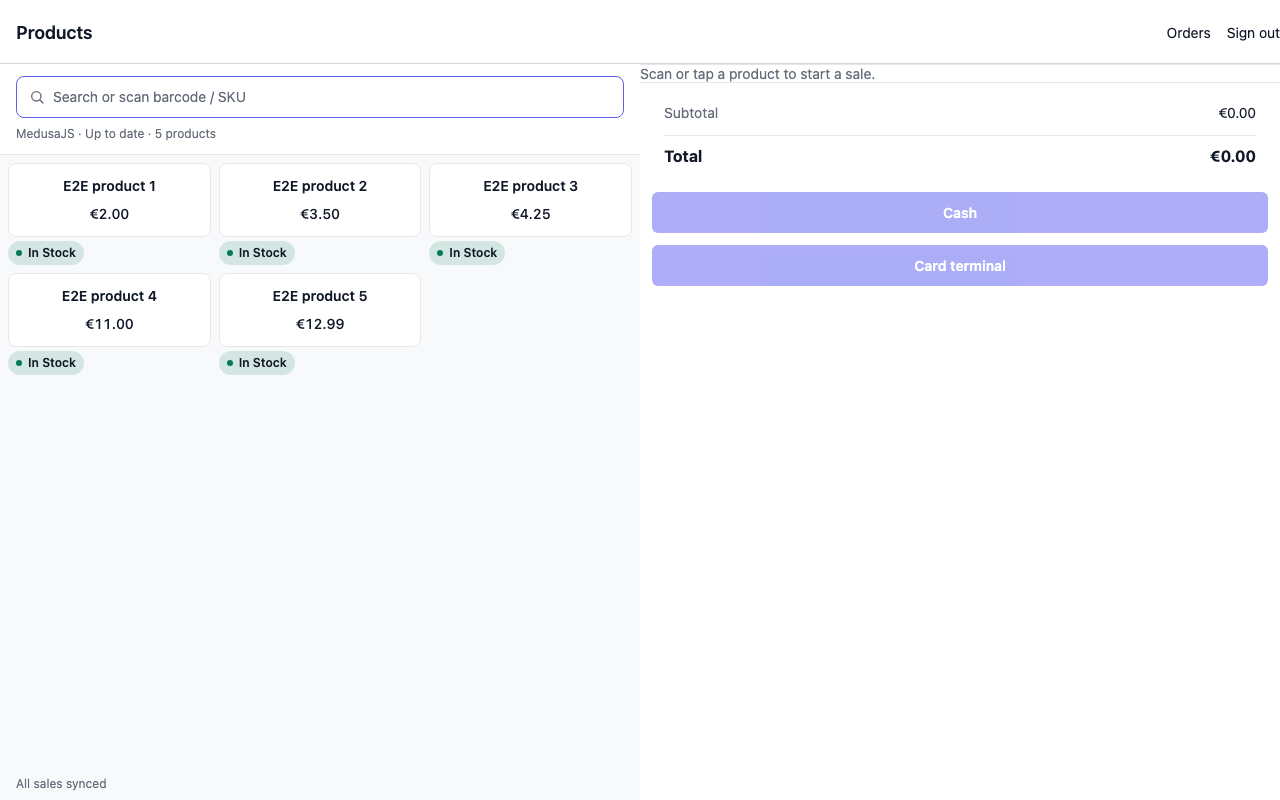
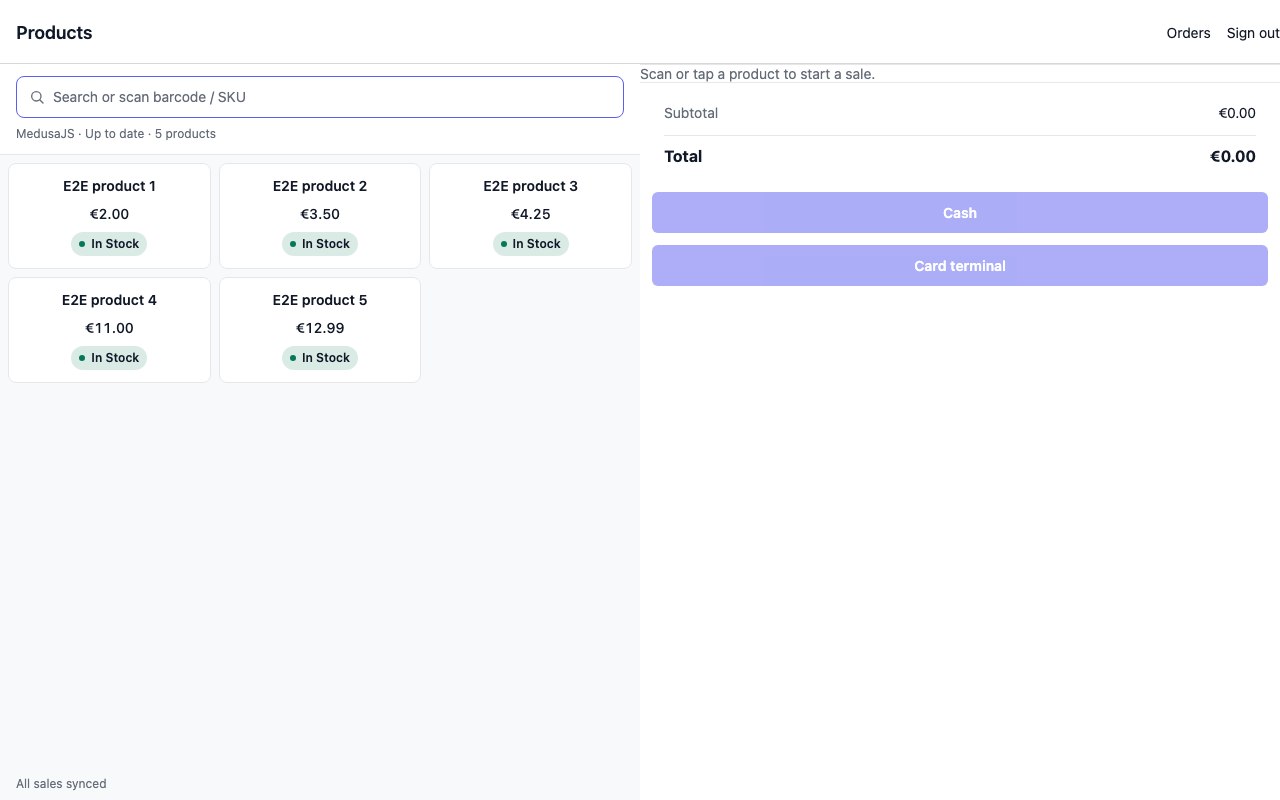
fix(app): stock badge sits inside the tile card, centred under the price
ProductCard has no children slot, so the tile is composed from TallyUI's ProductImage, ProductTitle, ProductPrice and ProductStockBadge with ProductCard's exact classes, the badge last and centred (self-center overrides the badge's self-start). The card stays 168 px wide at 360 px; the Pressable gains accessibilityRole=button. Screenshots re-shot.

Implemented by sonnet subagent (Codex quota exhausted).

Claude-Session: https://claude.ai/code/session_012gSKmu3iwwMZQ8DAJ144jw

Changed region(s): [[0.0, 0.2812, 0.125, 0.4688], [0.1562, 0.2812, 0.2812, 0.4688], [0.3125, 0.2812, 0.4688, 0.3438]]

diff --git a/apps/expo/tests/catalogue.test.tsx b/apps/expo/tests/catalogue.test.tsx
@@ -5,7 +5,7 @@ import { Subject } from 'rxjs';
 import type { ComponentProps, ReactNode } from 'react';
 import { afterEach, describe, expect, it, vi } from 'vitest';
 import { medusaConnector } from '@tallyui/connector-medusa';
-import type { ProductCard, ProductGrid, ProductStockBadge, SearchInput } from '@tallyui/components';
+import type { ProductGrid, ProductStockBadge, SearchInput } from '@tallyui/components';
 import { Catalogue, formatStockSyncTime } from '../components/catalogue';
 import { createTallyDatabase } from '@tallyui/database';
 import { clearProductCache, productCacheName, productCacheStorage } from '../lib/product-cache';
@@ -22,9 +22,12 @@ vi.mock('@tallyui/components', () => ({
       {items.length ? items.map((item, index) => <div key={item.id}>{renderItem(item, index)}</div>) : emptyState}
     </div>
   ),
-  ProductCard: ({ doc, onPress }: ComponentProps<typeof ProductCard>) => (
-    <button onClick={onPress}>{doc.title as ReactNode}</button>
-  ),
+  // The tile is composed directly in catalogue.tsx (ProductCard has no children slot), so these
+  // stand in for its pieces; only ProductTitle needs to render real content for the tests below.
+  ProductImage: () => null,
+  ProductTitle: ({ doc }: { doc: { title?: ReactNode } }) => <span>{doc.title}</span>,
+  ProductPrice: () => null,
+  VStack: ({ children }: { children?: ReactNode }) => <div>{children}</div>,
   // Stands in for TallyUI's real badge (which reads useProductStock off a ConnectorProvider):
   // reports the status this doc's own fields resolve to, so a test can tell which product a
   // tile's badge belongs to and confirm the tile never asks it to show an "as of".
@@ -95,7 +98,7 @@ describe('Catalogue', () => {
     const time = new Date('2026-09-24T10:42:00Z');
     const expected = formatStockSyncTime(time, undefined, hour12, time);
     mount(products, time);
-    fireEvent.click(screen.getByRole('button', { name: 'Red Shirt' }));
+    fireEvent.click(screen.getByTestId('product-tile-Red Shirt'));
     const chooser = within(screen.getByLabelText('Choose variant'));
     expect(chooser.getByText(`In Stock · as of ${expected}`)).toBeTruthy();
     expect(chooser.getByText(`Out of Stock · as of ${expected}`)).toBeTruthy();
@@ -104,7 +107,7 @@ describe('Catalogue', () => {
     const synced = new Date('2026-09-24T09:15:00Z');
     const checked = new Date('2026-09-24T10:42:00Z');
     mount(products, synced, checked);
-    fireEvent.click(screen.getByRole('button', { name: 'Red Shirt' }));
+    fireEvent.click(screen.getByTestId('product-tile-Red Shirt'));
     const chooser = within(screen.getByLabelText('Choose variant'));
     expect(chooser.getByText(`In Stock · as of ${formatStockSyncTime(checked)}`)).toBeTruthy();
     expect(chooser.queryByText(`In Stock · as of ${formatStockSyncTime(synced)}`)).toBeNull();
@@ -113,7 +116,7 @@ describe('Catalogue', () => {
     const checked = new Date('2026-09-24T09:15:00Z');
     const synced = new Date('2026-09-24T10:42:00Z');
     mount(products, synced, checked);
-    fireEvent.click(screen.getByRole('button', { name: 'Red Shirt' }));
+    fireEvent.click(screen.getByTestId('product-tile-Red Shirt'));
     const chooser = within(screen.getByLabelText('Choose variant'));
     expect(chooser.getByText(`In Stock · as of ${formatStockSyncTime(synced)}`)).toBeTruthy();
     expect(chooser.queryByText(`In Stock · as of ${formatStockSyncTime(checked)}`)).toBeNull();
@@ -121,7 +124,7 @@ describe('Catalogue', () => {
   it('shows a short date as well as the time when the winning sync is from yesterday', () => {
     const yesterday = new Date(Date.now() - 24 * 60 * 60 * 1000);
     mount(products, null, yesterday);
-    fireEvent.click(screen.getByRole('button', { name: 'Red Shirt' }));
+    fireEvent.click(screen.getByTestId('product-tile-Red Shirt'));
     const chooser = within(screen.getByLabelText('Choose variant'));
     const expected = formatStockSyncTime(yesterday);
     expect(expected).toContain(',');
@@ -130,7 +133,7 @@ describe('Catalogue', () => {
   it("shows only the time when the winning sync is from today", () => {
     const today = new Date();
     mount(products, null, today);
-    fireEvent.click(screen.getByRole('button', { name: 'Red Shirt' }));
+    fireEvent.click(screen.getByTestId('product-tile-Red Shirt'));
     const chooser = within(screen.getByLabelText('Choose variant'));
     const expected = formatStockSyncTime(today);
     expect(expected).not.toContain(',');
@@ -140,8 +143,8 @@ describe('Catalogue', () => {
     const { input } = mount();
     expect(document.activeElement).toBe(input);
     fireEvent.change(input, { target: { value: 'red' } });
-    expect(screen.getByRole('button', { name: 'Red Shirt' })).toBeTruthy();
-    expect(screen.queryByRole('button', { name: 'Blue Hat' })).toBeNull();
+    expect(screen.getByTestId('product-tile-Red Shirt')).toBeTruthy();
+    expect(screen.queryByTestId('product-tile-Blue Hat')).toBeNull();
     expect(screen.getByText('Synced · 1 matching')).toBeTruthy();
   });
   it('submits a barcode across all variants, preferring it over another product SKU, and clears search', () => {
@@ -152,8 +155,8 @@ describe('Catalogue', () => {
       product: products[1], variant: traits.getVariants!(products[1])[1],
     });
     expect(input.value).toBe('');
-    expect(screen.getByRole('button', { name: 'Blue Hat' })).toBeTruthy();
-    expect(screen.getByRole('button', { name: 'Red Shirt' })).toBeTruthy();
+    expect(screen.getByTestId('product-tile-Blue Hat')).toBeTruthy();
+    expect(screen.getByTestId('product-tile-Red Shirt')).toBeTruthy();
   });
   it('leaves an unknown code and its results intact', () => {
     const { input, onSelect } = mount();
@@ -165,7 +168,7 @@ describe('Catalogue', () => {
   });
   it('selects a single variant by tapping its product', () => {
     const { onSelect } = mount();
-    fireEvent.click(screen.getByRole('button', { name: 'Blue Hat' }));
+    fireEvent.click(screen.getByTestId('product-tile-Blue Hat'));
     expect(onSelect).toHaveBeenCalledExactlyOnceWith({
       product: products[0], variant: traits.getVariants!(products[0])[0],
     });
@@ -173,7 +176,7 @@ describe('Catalogue', () => {
   });
   it('shows variant details and lets an out-of-stock variant be selected', () => {
     const { onSelect } = mount();
-    fireEvent.click(screen.getByRole('button', { name: 'Red Shirt' }));
+    fireEvent.click(screen.getByTestId('product-tile-Red Shirt'));
     expect(onSelect).not.toHaveBeenCalled();
     const chooser = within(screen.getByLabelText('Choose variant'));
     expect(chooser.getByText('Small')).toBeTruthy();
@@ -189,7 +192,7 @@ describe('Catalogue', () => {
   });
   it('closes the chooser on Cancel without selecting', () => {
     const { onSelect } = mount();
-    fireEvent.click(screen.getByRole('button', { name: 'Red Shirt' }));
+    fireEvent.click(screen.getByTestId('product-tile-Red Shirt'));
     fireEvent.click(screen.getByRole('button', { name: 'Cancel' }));
     expect(screen.queryByLabelText('Choose variant')).toBeNull();
     expect(onSelect).not.toHaveBeenCalled();

diff --git a/apps/expo/components/catalogue.tsx b/apps/expo/components/catalogue.tsx
@@ -2,7 +2,7 @@ import { useMemo, useState } from 'react';
 import { Pressable, Text, View } from 'react-native';
 import { getCalendars } from 'expo-localization';
 import type { ProductTraits } from '@tallyui/core';
-import { ProductCard, ProductGrid, ProductStockBadge, SearchInput } from '@tallyui/components';
+import { ProductGrid, ProductImage, ProductPrice, ProductStockBadge, ProductTitle, SearchInput, VStack } from '@tallyui/components';
 import { searchProducts } from '@tallyui/pos';
 import { catalogueEntries, findEntryByCode, variantPriceLabel, type CatalogueEntry } from '../lib/catalogue';
 
@@ -89,17 +89,21 @@ export function Catalogue<Doc>({ products, traits, currency, onSelect, statusTex
       </View>
       <ProductGrid items={results} numColumns={columns}
         renderItem={(product: Doc) => (
-          <View testID={`product-tile-${traits.getName(product)}`} className="self-stretch gap-1">
-            <ProductCard doc={product} onPress={() => {
-              const variants = entries.filter((entry) => entry.product === product);
-              if (variants.length === 1) select(variants[0]);
-              else setChoices(variants);
-            }} />
-            {/* ProductStockBadge's own default className is self-start, which left-aligns it under
-                the card's edge; the wrapper above no longer sets items-center, so this stretches
-                the card to the grid cell's full width instead of shrinking it to content. */}
-            <ProductStockBadge doc={product} showAsOf={false} />
-          </View>
+          // TallyUI's ProductCard has no children slot, so the tile is composed directly here
+          // (same structure/classes as ProductCard) to add the stock badge as a fourth child,
+          // inside the card and centred with the rest, instead of TallyUI (out of scope).
+          <Pressable accessibilityRole="button" testID={`product-tile-${traits.getName(product)}`} onPress={() => {
+            const variants = entries.filter((entry) => entry.product === product);
+            if (variants.length === 1) select(variants[0]);
+            else setChoices(variants);
+          }}>
+            <VStack space="sm" className="items-center rounded-lg border border-border bg-card p-3">
+              <ProductImage doc={product} size={80} className="rounded-md" />
+              <ProductTitle doc={product} className="text-sm" numberOfLines={2} />
+              <ProductPrice doc={product} />
+              <ProductStockBadge doc={product} showAsOf={false} className="self-center" />
+            </VStack>
+          </Pressable>
         )}
         emptyState={<Text className="mt-10 text-center text-sm text-muted-foreground">
           {query.trim() ? `No products match "${query.trim()}".` : 'No products yet.'}

diff --git a/apps/expo/tests/products-screen.test.tsx b/apps/expo/tests/products-screen.test.tsx
@@ -1,7 +1,7 @@
 // @vitest-environment jsdom
 import { act, cleanup, fireEvent, render, screen } from '@testing-library/react';
 import type { ComponentProps, ReactNode } from 'react';
-import type { ProductCard, ProductGrid, SearchInput, CartPanelProps, CartLineProps, CartTotalProps } from '@tallyui/components';
+import type { ProductGrid, SearchInput, CartPanelProps, CartLineProps, CartTotalProps } from '@tallyui/components';
 import { formatMoney } from '@tallyui/core';
 import { createOrderBuilder, finalizeOrder, type LineItem, type PosOrder } from '@tallyui/pos';
 import { afterEach, beforeEach, describe, expect, it, vi } from 'vitest';
@@ -44,9 +44,15 @@ vi.mock('@tallyui/components', () => ({
   ProductGrid: ({ items, renderItem, emptyState, numColumns }: ComponentProps<typeof ProductGrid>) => (
     <div data-testid="product-grid" data-columns={numColumns}>{items.length ? items.map((item, index) => <div key={item.id}>{renderItem(item, index)}</div>) : emptyState}</div>
   ),
-  ProductCard: ({ doc, onPress }: ComponentProps<typeof ProductCard>) => <button onClick={onPress}>{doc.title}</button>,
-  // This file's tests aren't about the tile badge (see catalogue.test.tsx); a stub keeps the mock
-  // of '@tallyui/components' complete now that catalogue.tsx renders one per tile.
+  // The tile is composed directly in catalogue.tsx (ProductCard has no children slot); these
+  // stand in for its pieces. Only ProductTitle needs to render visible content — this file's
+  // tests aren't about price or the tile badge (see catalogue.test.tsx) and the tile's
+  // accessibilityRole="button" name must stay exactly the product name for the button-role
+  // assertions below.
+  ProductImage: () => null,
+  ProductTitle: ({ doc }: { doc: { title?: ReactNode } }) => <span>{doc.title}</span>,
+  ProductPrice: () => null,
+  VStack: ({ children }: { children?: ReactNode }) => <div>{children}</div>,
   ProductStockBadge: () => null,
   SearchInput: ({ value, onChangeText, onSubmitEditing, placeholder }: ComponentProps<typeof SearchInput>) => (
     <input value={value} placeholder={placeholder} onChange={(event) => onChangeText(event.target.value)}
